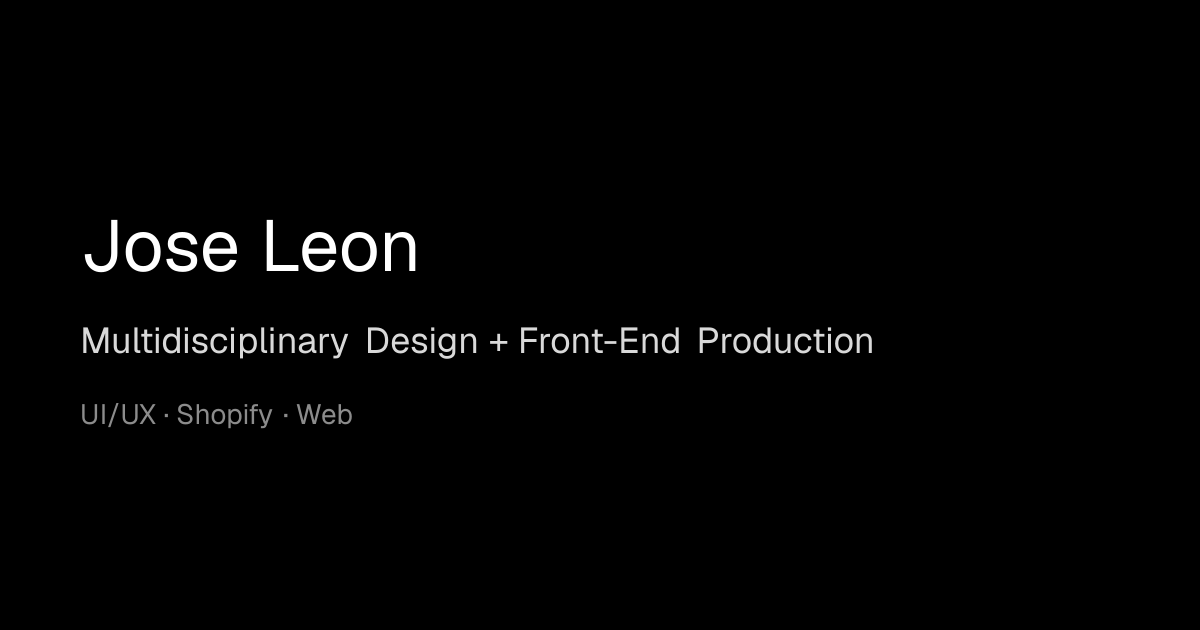
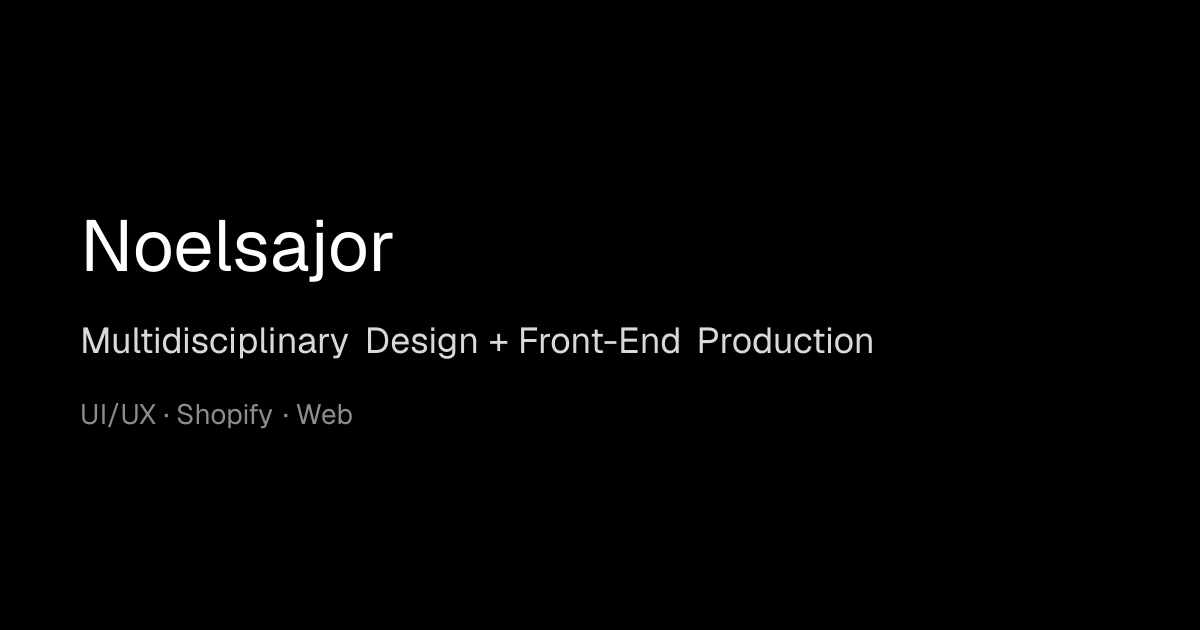
feat(brand): Noelsajor becomes the public name, legal name stays linked
The domain, the email and every profile already use the pseudonym while
the site said "Jose Leon", a name that is unfindable among thousands of
others. Header, footer, titles, metadata, FAQ, case-study seoTitles and
the OG image now say Noelsajor.

The legal name stays visible where it matters and is machine-linked to
the brand: Person.alternateName carries "Jose Leon Rojas" and "Jose
Leon" so search engines resolve either name to one entity, the About
prose opens with "Noelsajor (Jose Leon Rojas)", and the resume page and
its PDF filenames keep the legal name since that page feeds recruiters,
contracts and ATS matching. siteConfig gains a legalName field.

Claude-Session: https://claude.ai/code/session_01QojRCRcjahJgr9gMpSxHJZ

Changed region(s): [[0.0617, 0.3317, 0.37, 0.4524]]

diff --git a/src/content/en/static-pages.ts b/src/content/en/static-pages.ts
@@ -14,7 +14,7 @@ export const aboutContent = {
     },
     heading: 'About',
     paragraphs: [
-        "I’m Jose Leon, a multidisciplinary designer and front-end developer with more than a decade of experience across branding, UI/UX, e-commerce, digital products, and web implementation.",
+        "I’m Noelsajor (Jose Leon Rojas), a multidisciplinary designer and front-end developer with more than a decade of experience across branding, UI/UX, e-commerce, digital products, and web implementation.",
         'What started as visual and brand design work grew into UI/UX and front-end implementation — I work across strategy, design, and production instead of handing a project between separate specialists. That includes Shopify: I build custom storefronts, themes, and reusable Liquid sections for e-commerce brands, alongside UI/UX and front-end work outside of e-commerce entirely.',
         "I use AI to speed up research, documentation, and repetitive implementation work. Every output is reviewed and adapted to the project’s actual goals, brand, and technical constraints — the creative and technical judgment stays mine.",
         'I collaborate remotely with international teams — founders, marketers, designers, and other developers — without unnecessary process overhead.'
@@ -51,11 +51,14 @@ export const resumeContent = {
     metadata: {
         title: 'Resume',
         description:
-            'Jose Leon — Multidisciplinary Designer & Front-End Production Specialist. Skills, experience, and selected work for recruiters and hiring managers.'
+            'Jose Leon Rojas (Noelsajor) — Multidisciplinary Designer & Front-End Production Specialist. Skills, experience, and selected work for recruiters and hiring managers.'
     },
     // Empty on purpose: the resume page drops the eyebrow (the page skips it when empty).
     eyebrow: '',
-    name: 'Jose Leon',
+    // Legal name on purpose: this is the recruiter-facing page, the one that
+    // feeds contracts, background checks and ATS matching. The brand name is
+    // in the header, the footer and the domain right above it.
+    name: 'Jose Leon Rojas',
     title: 'Multidisciplinary Designer & Front-End Production Specialist',
     intro: 'For recruiters and hiring managers evaluating contract, short-term, or permanent roles.',
     skillsHeading: 'Skills',

diff --git a/src/content/es/static-pages.ts b/src/content/es/static-pages.ts
@@ -19,7 +19,7 @@ export const aboutContent = {
     },
     heading: 'Sobre mí',
     paragraphs: [
-        'Soy Jose Leon, diseñador multidisciplinario y desarrollador front-end con más de una década de experiencia en branding, UI/UX, e-commerce, productos digitales e implementación web.',
+        'Soy Noelsajor (Jose Leon Rojas), diseñador multidisciplinario y desarrollador front-end con más de una década de experiencia en branding, UI/UX, e-commerce, productos digitales e implementación web.',
         'Lo que empezó como diseño visual y de marca creció hacia UI/UX e implementación front-end. Trabajo en estrategia, diseño y producción en lugar de pasar el proyecto de un especialista a otro. Eso incluye Shopify: construyo tiendas a medida, temas y secciones Liquid reutilizables para marcas de e-commerce, además de trabajo de UI/UX y front-end fuera del e-commerce.',
         'Uso IA para acelerar la investigación, la documentación y el trabajo de implementación repetitivo. Reviso y adapto cada resultado a los objetivos reales del proyecto, a la marca y a sus restricciones técnicas: el criterio creativo y técnico sigue siendo mío.',
         'Colaboro de forma remota con equipos internacionales (fundadores, equipos de marketing, diseñadores y otros desarrolladores) sin procesos innecesarios de por medio.'
@@ -52,11 +52,12 @@ export const resumeContent = {
     metadata: {
         title: 'CV',
         description:
-            'CV de Jose Leon, diseñador multidisciplinario y especialista en producción front-end: habilidades, experiencia y proyectos para reclutadores.'
+            'CV de Jose Leon Rojas (Noelsajor), diseñador multidisciplinario y especialista en producción front-end: habilidades, experiencia y proyectos para reclutadores.'
     },
     // Empty on purpose: the resume page drops the eyebrow (the page skips it when empty).
     eyebrow: '',
-    name: 'Jose Leon',
+    // Legal name on purpose: see the note in ../en/static-pages.ts.
+    name: 'Jose Leon Rojas',
     // Also used as Person.jobTitle in JSON-LD (StructuredData.tsx).
     title: 'Diseñador multidisciplinario y especialista en producción front-end',
     intro: 'Para reclutadores y responsables de contratación que evalúan roles por contrato, de corto plazo o permanentes.',

diff --git a/src/lib/site-config.ts b/src/lib/site-config.ts
@@ -13,14 +13,22 @@ import { DEFAULT_LOCALE, INDEXABLE_LOCALES, isIndexableLocale, type Locale } fro
 // while visitors and crawlers were being redirected to `www`, which made
 // Google see two hosts for every page.
 export const siteConfig = {
-    name: 'Jose Leon',
-    title: 'Jose Leon — Product Design & Front-End Implementation',
+    // Public brand name. The pseudonym (surnames reversed: Leon -> Noel,
+    // Rojas -> Sajor) is what the domain, the email and every profile already
+    // use, and unlike "Jose Leon" it is unambiguous in search results.
+    name: 'Noelsajor',
+    // Legal name. Not the brand, but emitted as Person.alternateName and kept
+    // in the About prose and the resume so search engines, recruiters and
+    // contracts can reconcile both identities as one person.
+    legalName: 'Jose Leon Rojas',
+    title: 'Noelsajor — Product Design & Front-End Implementation',
     description:
         'I help agencies and digital teams turn ideas into polished, production-ready websites and product experiences through product design, front-end development and Shopify implementation.',
     siteUrl: 'https://www.noelsajor.com',
     email: 'noelsajor@gmail.com',
     locale: 'en_US',
     keywords: [
+        'Noelsajor',
         'Jose Leon',
         'Product Designer',
         'Front-End Developer',
@@ -29,12 +37,12 @@ export const siteConfig = {
         'Front-End Implementation'
     ],
     author: {
-        name: 'Jose Leon',
+        name: 'Noelsajor',
         url: 'https://www.noelsajor.com'
     },
-    // The handle used on the domain, the email and every profile below.
-    // Emitted as Person.alternateName so search and AI engines can reconcile
-    // "Jose Leon" with the `noelsajor` identity they find everywhere else.
+    // The lowercase handle used on the domain, the email and every profile
+    // below. Same identity as `name`, kept separate because profile URLs and
+    // the email local part need the lowercase form.
     handle: 'noelsajor',
     // Verified real profiles only — do not add unconfirmed accounts.
     sameAs: {

diff --git a/src/content/es/home.ts b/src/content/es/home.ts
@@ -11,7 +11,7 @@ export const homeContent = {
     metadata: {
         // Branded <title> pattern mirrors the English one (name — tagline);
         // this is the only home-page string where the em dash is kept.
-        title: 'Jose Leon — Diseño de producto e implementación front-end',
+        title: 'Noelsajor — Diseño de producto e implementación front-end',
         description:
             'Diseñador de producto y desarrollador front-end freelance: ayudo a agencias y equipos a convertir ideas en sitios web y productos listos para producción.'
     },
@@ -182,7 +182,7 @@ export const homeContent = {
         heading: 'Preguntas frecuentes',
         items: [
             {
-                question: '¿Qué hace Jose Leon?',
+                question: '¿Qué hace Noelsajor?',
                 answer: 'Soy un generalista del diseño que crea productos y soluciones digitales. Diseño flujos de usuario, interfaces y sistemas de diseño, y luego los implemento como front-ends responsive y accesibles, incluyendo tiendas Shopify y WooCommerce a medida.'
             },
             {

diff --git a/src/content/en/home.ts b/src/content/en/home.ts
@@ -3,7 +3,7 @@ import { siteConfig } from '@/lib/site-config'
 export const homeContent = {
     // PR 11: page metadata lives with the page copy so a locale can author
     // its own <title>/description. `title` is the full branded title (it
-    // bypasses the layout's `%s | Jose Leon` template via title.absolute);
+    // bypasses the layout's `%s | Noelsajor` template via title.absolute);
     // it also feeds WebSite.description in StructuredData.
     metadata: {
         title: siteConfig.title,
@@ -180,7 +180,7 @@ export const homeContent = {
         heading: 'Frequently asked',
         items: [
             {
-                question: 'What does Jose Leon do?',
+                question: 'What does Noelsajor do?',
                 answer: 'I am a design generalist who builds digital products and solutions. I design user flows, interfaces and design systems, then implement them as responsive, accessible front-ends, including custom Shopify and WooCommerce storefronts.'
             },
             {

diff --git a/src/app/[lang]/work/[slug]/page.tsx b/src/app/[lang]/work/[slug]/page.tsx
@@ -55,12 +55,12 @@ export async function generateMetadata({
         `/work/${slug}`
     )
 
-    // Existing seoTitle values already end in " | Jose Leon" (authored before
+    // Existing seoTitle values already end in " | Noelsajor" (authored before
     // the root layout had a title template). Strip that suffix for the page
     // `title` so the template doesn't append it twice; Open Graph/Twitter
     // don't use the template, so they keep the full authored title as-is.
     const fullTitle = frontmatter.seoTitle ?? frontmatter.title
-    const shortTitle = fullTitle.replace(/\s*\|\s*Jose Leon\s*$/, '')
+    const shortTitle = fullTitle.replace(/\s*\|\s*(Noelsajor|Jose Leon)\s*$/, '')
 
     // Falls back to the default site-wide OG image until a real, approved
     // per-project cover image exists (see coverImage/coverAlt in the schema).

diff --git a/src/app/[lang]/page.tsx b/src/app/[lang]/page.tsx
@@ -16,7 +16,7 @@ import { homeContent as homeContentEn } from '@/content/en/home'
 import { homeContent as homeContentEs } from '@/content/es/home'
 
 // `title.absolute` on purpose: the home title is already fully branded (it
-// contains "Jose Leon" once), so it must bypass the layout's `%s | Jose Leon`
+// contains the brand name once), so it must bypass the layout's `%s | Noelsajor`
 // template. PR 11: title/description come from homeContent.metadata so each
 // locale authors its own (for `en` they equal siteConfig.title/description,
 // which is also the layout's `title.default`). Open Graph doesn't get a

diff --git a/src/components/SiteFooter.tsx b/src/components/SiteFooter.tsx
@@ -59,7 +59,7 @@ export function SiteFooter({ lang }: { lang: Locale }) {
     return (
         <footer className="border-t border-white/10">
             <div className="mx-auto flex max-w-5xl flex-col gap-3 px-4 py-10 text-sm text-white/70 md:flex-row md:items-center md:justify-between">
-                <p>© {new Date().getFullYear()} Jose Leon</p>
+                <p>© {new Date().getFullYear()} Noelsajor</p>
                 <nav aria-label={footer.ariaFooterLinks} className="flex flex-wrap gap-3">
                     <Link
                         className={footerLinkClass}

diff --git a/src/lib/structured-data.ts b/src/lib/structured-data.ts
@@ -44,7 +44,9 @@ export function buildPersonSchema({
         '@type': 'Person',
         '@id': PERSON_ID,
         name: siteConfig.author.name,
-        alternateName: siteConfig.handle,
+        // Both legal forms, so a search for either resolves to this entity
+        // instead of splitting the person's authority across two names.
+        alternateName: [siteConfig.legalName, 'Jose Leon'],
         url: siteConfig.siteUrl,
         email: `mailto:${siteConfig.email}`,
         jobTitle,

diff --git a/scripts/generate-og-image.tsx b/scripts/generate-og-image.tsx
@@ -20,7 +20,7 @@ async function main() {
                     fontFamily: 'sans-serif'
                 }}
             >
-                <div style={{ display: 'flex', fontSize: 72, fontWeight: 700, color: '#ffffff' }}>Jose Leon</div>
+                <div style={{ display: 'flex', fontSize: 72, fontWeight: 700, color: '#ffffff' }}>Noelsajor</div>
                 <div
                     style={{
                         display: 'flex',

diff --git a/src/components/SiteHeader.tsx b/src/components/SiteHeader.tsx
@@ -69,7 +69,7 @@ export function SiteHeader({ lang }: { lang: Locale }) {
                     data-tracking="nav_home"
                     className="text-sm font-semibold tracking-tight text-white"
                 >
-                    Jose Leon
+                    Noelsajor
                 </Link>
 
                 {/* Desktop nav */}

diff --git a/src/content/es/ui.ts b/src/content/es/ui.ts
@@ -87,7 +87,7 @@ export const uiContent = {
         downloadCta: 'Descargar CV',
         // PR 14: Spanish PDF, same one-page layout as /resume.pdf.
         pdfHref: '/resume-es.pdf',
-        downloadFilename: 'Jose-Leon-CV.pdf'
+        downloadFilename: 'Jose-Leon-Rojas-CV.pdf'
     },
     contactForm: {
         nameLabel: 'Nombre',
